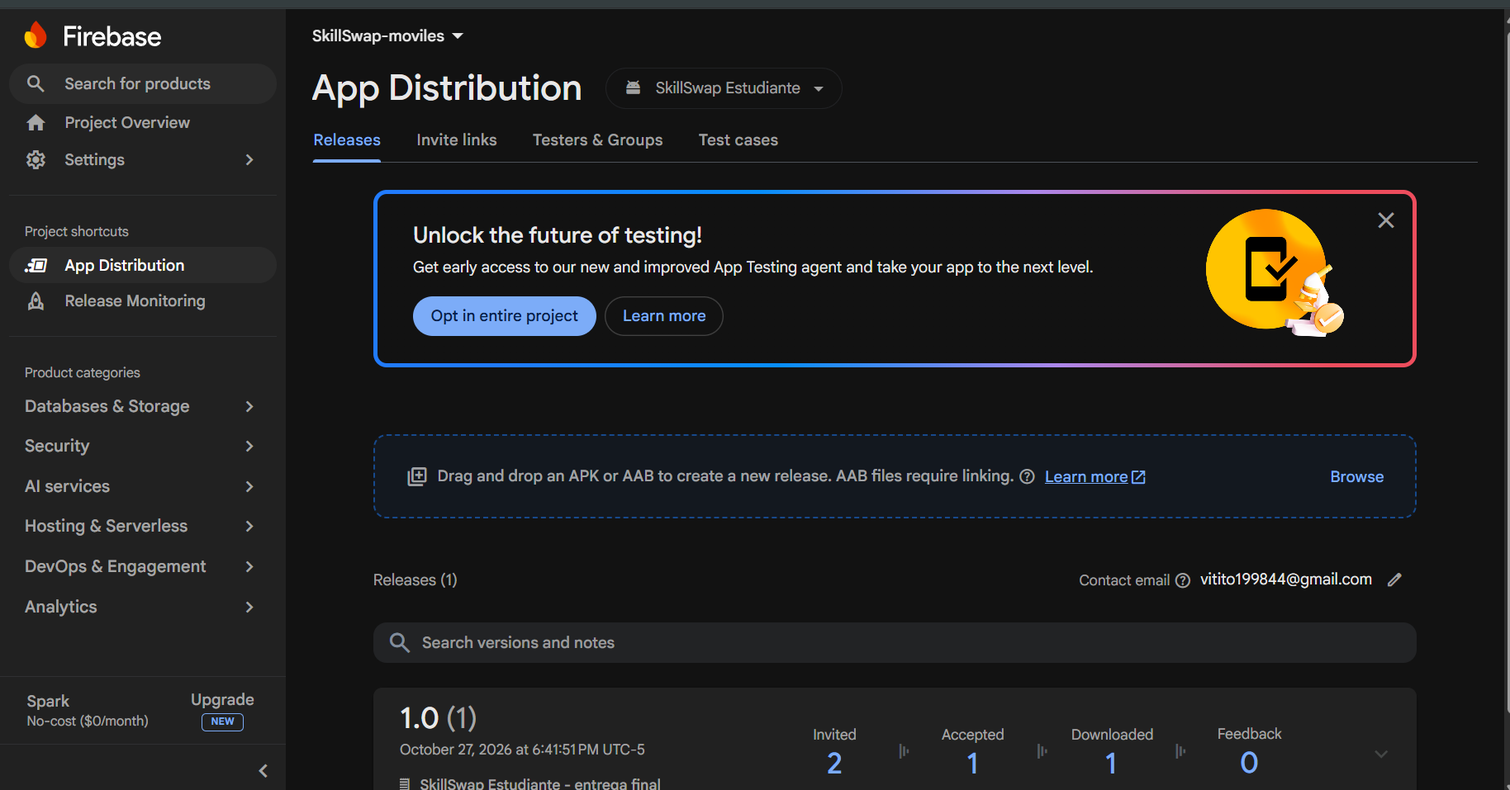
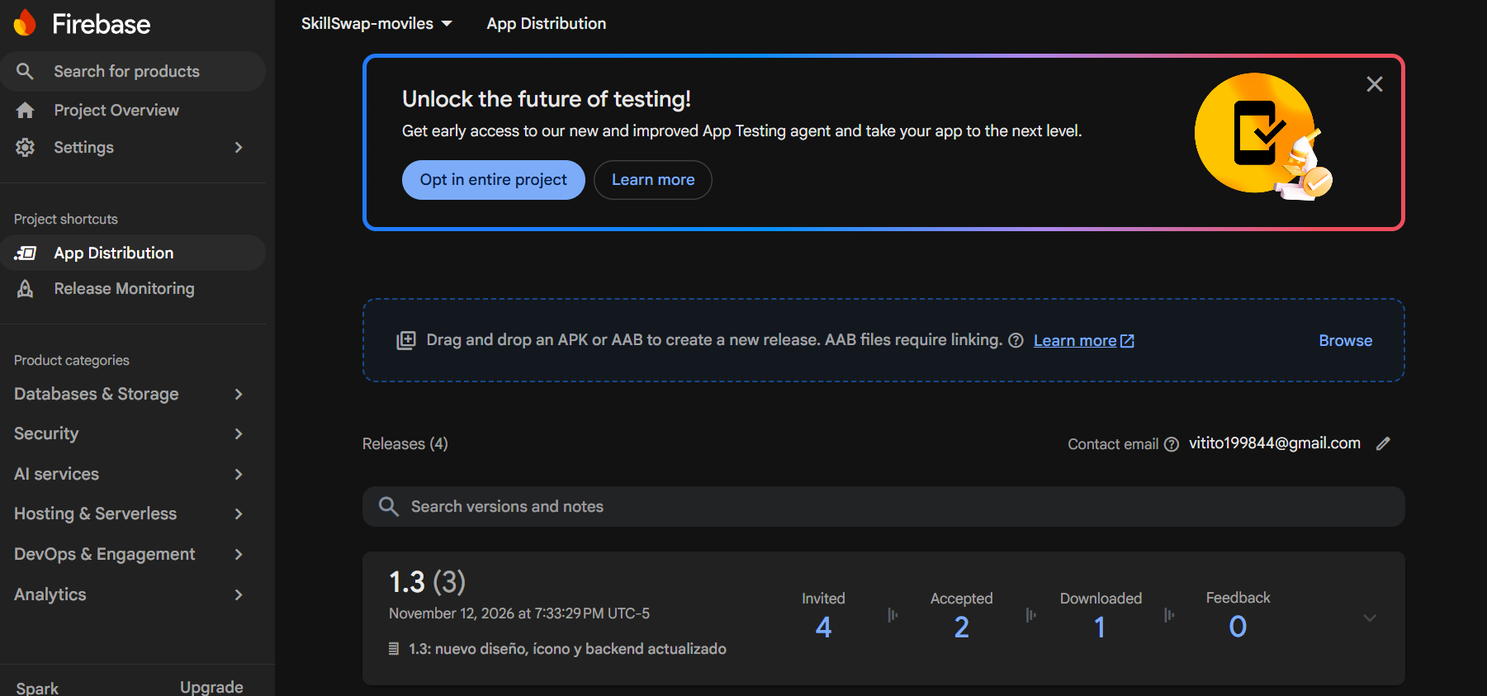
docs(report): reemplazar los marcadores de captura por las figuras de Insights, Firebase y GitHub Releases

diff --git a/upc-pre-02-1acc0238-4948-Innovify-report-avn2.md b/upc-pre-02-1acc0238-4948-Innovify-report-avn2.md
@@ -76,12 +76,12 @@ Noviembre 2026
 | **v.09.AV2** | 30/10/2026 | Alberca Saavedra, Víctor Manuel | Se agregaron al Sprint 2 la tienda de beneficios con canje de SkillCredits y confirmación biométrica de la app Flutter (T76, US32) y la sección de descarga del Landing Page con la corrección de sus botones de acceso (T77, US44). Se actualizaron el Sprint Backlog 2 (34 tasks, 197 horas), la matriz de liderazgo (Tabla 27), los commits (Tablas 29 y 30), el número de pruebas de Flutter (43), el avance del Verificador (7 de 14 historias), el estado de los problemas #1 y #2 de 4.3.3 y las recomendaciones de Conclusiones. |
 | **v.10.AV2** | 01/11/2026 | Alberca Saavedra, Víctor Manuel | Se registró el cambio de despliegue del backend de Render a AWS (31/10/2026): se agregó el apartado correspondiente a 4.2.2.8 (Figuras 151 y 152), se actualizaron 4.1.4, la Tabla 14, la Tabla 33, el Deployment Diagram (2.5), el commit de despliegue (Tabla 29), las Conclusiones y el Anexo A, y se conservó sin cambios el despliegue en Render del Sprint 1 (4.2.1.8). Las capturas de las Figuras 151 y 152 quedan pendientes. |
 | **v.11.AV2** | 09/11/2026 | Komatsu Dueñas, David | Se corrigieron los siguientes tópicos a partir de la revisión del informe para el AV2, contrastándolo con los repositorios:<br><br>**Carátula** (mes de la entrega: noviembre de 2026)<br>**Project Report Collaboration Insights** (AV2 con los commits y Pull Requests reales del repositorio del informe entre el 10 de octubre y el 9 de noviembre de 2026) y **Contenido** (entrada AV2)<br>**Student Outcome** (acciones de AV2 de Komatsu Dueñas, David en las tasks T45, T50, T51, T56 y T70, y conclusiones grupales de AV2)<br><br>**Capítulo I:** 1.1.1 (evaluación entre pares, con cita) y 1.2.1 (microcredenciales y contenido generado con IA, con citas)<br>**Capítulo II:** 2.4.1, 2.4.2, 2.5.1 y 2.5.3 (citas de los métodos aplicados); 2.4.3 Product Backlog (columna Sprint con las 13 historias del Sprint 2 y retiro de una fila de la evaluación heurística que estaba en la Tabla 10); 2.5.3 (texto de los diagramas de Contexto, Contenedores y Despliegue con un actor por aplicación)<br>**Capítulo IV:** 4.1.2 (citas de GitFlow, Semantic Versioning y Conventional Commits, y del desarrollo multiplataforma); 4.1.3 (guía de estilo de Dart / Flutter); 4.1.4 y 4.2.2.8 (versión 1.2 de la app nativa, que consume el backend en AWS, y app Flutter todavía configurada con la URL de Render, en la Tabla 33 y el Anexo A, y nota de la Figura 152 con el estado del Swagger UI en AWS al 9 de noviembre de 2026); 4.2.2.4 (commits de los PR #21 a #23 de la app nativa, de la base de la app Flutter y del PR #11 del Landing Page en la Tabla 29); 4.2.2.5 (todas las pruebas unitarias de la app nativa en la Tabla 30 y su nota); 4.2.2.9 Team Collaboration Insights (commits y Pull Requests por integrante y repositorio); 4.3.3 (problema #9 en la Tabla 36 y recomendaciones de los problemas #7 y #8 para las dos aplicaciones)<br><br>**Conclusiones** (recomendación 7 de accesibilidad, con cita)<br>**Bibliografía** (Alasmari, 2024, y Grévisse et al., 2024, trasladados desde los Anexos; volumen, número y páginas o número de artículo de los papers; Nguyen et al. con el año de su número, 2026; y el paper de Rabelo et al., 2026, sobre la accesibilidad de interfaces nativas de Android con Jetpack Compose) y **Anexo C** (estado del video About the Product)<br><br>Se agregó el archivo `README.md` como archivo principal del repositorio, con enlaces a cada sección del informe y a los repositorios de la solución. |
-| **v.12.AV2** | 10/11/2026 | Alberca Saavedra, Víctor Manuel | Se registraron las tres entrevistas de validación del segmento Personas que validan el conocimiento en 4.3.2 (Figuras 163 a 165) con su perfil, sus datos y el resumen descriptivo por tarea, y se ajustaron 4.3.1 y la Tabla 34 a la forma de esas sesiones, en las que se mostró el Landing Page y un video de la aplicación. |
+| **v.12.AV2** | 10/11/2026 | Alberca Saavedra, Víctor Manuel | Se registraron las tres entrevistas de validación del segmento Personas que validan el conocimiento en 4.3.2 (Figuras 164 a 166) con su perfil, sus datos y el resumen descriptivo por tarea, y se ajustaron 4.3.1 y la Tabla 34 a la forma de esas sesiones, en las que se mostró el Landing Page y un video de la aplicación. |
 | **v.13.AV2** | 11/11/2026 | Komatsu Dueñas, David | Se sincronizaron las evidencias del Sprint 2 con los repositorios y los despliegues al 11 de noviembre de 2026:<br><br>**Project Report Collaboration Insights** (AV2 con los commits y Pull Requests del repositorio del informe hasta el PR #108)<br><br>**Capítulo II:** 2.5.3.3 Software Architecture Deployment Diagrams (Deployment Diagram regenerado con la arquitectura real en AWS: instancia EC2 con Docker Compose y los contenedores de Caddy, la API y PostgreSQL 16, la distribución de cada aplicación y los servicios externos del backend, sin Render; texto de la sección y notas de las Figuras 74 y 122)<br><br>**Capítulo IV:** 4.1.4 (app Flutter apuntando al backend en AWS y versión 1.2 de la app nativa publicada en Firebase App Distribution); 4.2.2.4 (commits de los PR #37 y #38 del backend, del PR #7 de la app Flutter y del PR #13 del Landing Page en la Tabla 29, con su autoría); 4.2.2.5 (pruebas de los PR #37 y #38 en la Tabla 30 y resultados de `./mvnw test` sin Docker, `./gradlew testDebugUnitTest` y `flutter test` sobre `develop`); 4.2.2.7 (`GET /api/v1/reevaluations/candidates` en la Tabla 31); 4.2.2.8 (clientes y actualización del servidor en AWS, nota de la Figura 152 con la especificación OpenAPI publicada, Tabla 33, nota de la Figura 153 y estado de publicación del Landing Page con el inglés por defecto del PR #13); 4.2.2.9 Team Collaboration Insights (commits y Pull Requests por integrante y repositorio hasta el 11 de noviembre de 2026)<br><br>**Anexo A** (app Flutter y enlace de Firebase App Distribution), **Anexo B** (fila del AV2: no se presenta video de exposición, por indicación del docente) y **Anexo C** (estado del video de las entrevistas de validación) |
 | **v.14.AV2** | 11/11/2026 | Alberca Saavedra, Víctor Manuel | Se agregaron las capturas de la reunión de Sprint Planning 2, de la instancia EC2 y del Swagger en AWS, y las de 4.2.2.6 (resultado del quiz y pantalla principal del Verificador), con una descripción para cada figura de 4.2.2.6; se completaron en 4.3.2 los resultados de las sesiones con las personas que validan el conocimiento (hipótesis H4, H5 y H6 y supuestos que cambian) y se registró el cuadro de la entrevista 1; se eliminó la Figura 150 (programación de la demostración final) y se retiró la sección Video App Validation, con su pauta y su cuadro, renumerando las figuras y tablas siguientes. |
-| **v.15.AV2** | 12/11/2026 | Sulca Sánchez, Piero Angel | Se registró la primera versión del video About the Team: URL en Microsoft Stream y en YouTube, duración, cuadro representativo (Figura 176) y pauta real de secciones (Tabla 39); se actualizó su fila en el Anexo C. |
+| **v.15.AV2** | 12/11/2026 | Sulca Sánchez, Piero Angel | Se registró la primera versión del video About the Team: URL en Microsoft Stream y en YouTube, duración, cuadro representativo (Figura 177) y pauta real de secciones (Tabla 39); se actualizó su fila en el Anexo C. |
 | **v.16.AV2** | 12/11/2026 | Sulca Sánchez, Piero Angel | Se registraron en 4.2.2.4 (Tabla 29) los commits representativos de la reorganización por bounded contexts y el rediseño de la app del Estudiante (PR #24), de la actualización del Android Gradle Plugin y del saldo de SkillCredits en la app del Verificador (PR #8 y #9) y de la descarga directa de los APK en el Landing Page (PR #15); se completaron los aportes de Sulca Sánchez en Project Report Collaboration Insights. |
-| **v.17.AV2** | 12/11/2026 | Alberca Saavedra, Víctor Manuel | Se actualizaron las versiones de las aplicaciones (app nativa 1.3 y app Flutter 1.0.1) y su distribución mediante GitHub Releases en 2.5.3, 4.1.4, 4.2.2.8 (Tabla 33, procedimientos y Figuras 155 y 156) y el Anexo A, que ahora incluye los enlaces de descarga directa de los dos APK; y se actualizó la descripción del Landing Page en 4.2.2.8 (descarga directa, términos y condiciones, idioma y accesibilidad). |
+| **v.17.AV2** | 12/11/2026 | Alberca Saavedra, Víctor Manuel | Se actualizaron las versiones de las aplicaciones (app nativa 1.3 y app Flutter 1.0.1) y su distribución mediante GitHub Releases en 2.5.3, 4.1.4, 4.2.2.8 (Tabla 33, procedimientos y Figuras 155 y 156) y el Anexo A, que ahora incluye los enlaces de descarga directa de los dos APK; se actualizó la descripción del Landing Page en 4.2.2.8 (descarga directa, términos y condiciones, idioma y accesibilidad); y se agregó la Figura 160 con los gráficos de contribuciones de los repositorios. |
 
 <div style="page-break-after: always;"></div>
 
@@ -168,7 +168,7 @@ Durante el desarrollo de la entrega AV2, el equipo mantiene el esquema de colabo
   <img src="images-doc/github-commits-informe-av2.png" alt="Historial de commits del repositorio del Project Report durante AV2" width="900">
 </p>
 
-*Nota.* Las capturas corresponden a GitHub Insights al 24 de octubre de 2026 y muestran la rama `main`, que todavía no incluye los commits del AV2 integrados en `develop`. `[Reemplazar por las capturas de Contributors y Commits al cierre del AV2, después de integrar develop en main, y numerarlas como figuras.]` Elaboración propia.
+*Nota.* Las capturas corresponden a GitHub Insights (Contributors y Commits) de la rama `main` del repositorio del Project Report, tomadas al cierre del AV2, después de integrar `develop` en `main`. La primera muestra el gráfico de contribuciones, con los commits de cada integrante por semana, y la segunda, el historial de commits del período. Elaboración propia.
 
 
 
@@ -6394,7 +6394,7 @@ Se presentan las pruebas unitarias y de integración que cubren las historias de
 | SkillSwap-WebServices-Java | feature/assessment-reevaluation-candidates | `98b4714` | feat(assessmentpeerreview): add GET /api/v1/reevaluations/candidates | Pruebas: `ReevaluationsIntegrationTest`. | 2026-10-28 |
 | SkillSwap-WebServices-Java | fix/stale-integration-tests | `35e6e96` | test: align the redeem and demand metrics integration tests with current behavior | Ajustes en `FinalDemonstrationsIntegrationTest`, `RecognitionIncentivesApiIntegrationTest` y `MetricsApiIntegrationTest`. | 2026-11-09 |
 
-*Nota.* Commits del backend y de las aplicaciones a la fecha que incluyen pruebas automatizadas (unitarias y de integración). En la rama `feature/miniproject-preliminary-evaluation` (T56) la suite completa (`./mvnw test`) ejecutó 2326 pruebas sin fallos, sin las 446 pruebas de integración y persistencia con Testcontainers, que requieren Docker. Al ejecutar la suite completa con Docker sobre `develop` (en Windows) se corrieron 2329 pruebas con un fallo en `LearningPathPersistenceTest` (línea 311): el plazo del miniproyecto leído de PostgreSQL difería del guardado en la fracción de microsegundo, porque el reloj de Windows tiene pasos de 100 ns y PostgreSQL guarda microsegundos. El PR #22 (`fix/persistence-instant-precision`) lo corrige; su suite sin Docker ejecutó 2328 pruebas sin fallos. El PR #37 agrega las pruebas de `GET /api/v1/reevaluations/candidates` (unitarias, de persistencia y de integración) y el PR #38 ajusta tres pruebas de integración al comportamiento vigente. El 11 de noviembre de 2026, sobre la rama `develop` del backend (commit `2dc1632`, merge del PR #38), `./mvnw test` sin Docker reportó 2792 pruebas, sin fallos ni errores, de las cuales 566 se omitieron porque requieren Docker (Testcontainers). La corrida con Docker sobre `develop` queda pendiente de confirmación: `[Completar con el resultado de ./mvnw test con Docker sobre develop]`. Las pruebas de la aplicación nativa son unitarias, en `app/src/test` (`SignUpValidatorTest`, `CertificateParserTest`, `VerificationCaseTest`, `CertificateMismatchTest`, `WalletTest`, `FinalDemonstrationTest`, `PlanAndProfileTest`, `PathLimitsTest` y la `ExampleUnitTest` de la plantilla del proyecto): el 11 de noviembre de 2026, sobre la rama `develop` de `SkillSwap-MobileApp` (commit `9881db1`, merge del PR #23), `./gradlew testDebugUnitTest` (las pruebas unitarias locales de `./gradlew test` en la variante debug) ejecutó 41 pruebas en 9 clases, sin fallos, errores ni pruebas omitidas. La aplicación Flutter del Verificador tiene 43 pruebas: 26 de BLoC (`bloc_test.dart`), 16 de dominio (`domain_test.dart`) y 1 de widget (`widget_test.dart`); el mismo día, sobre la rama `develop` de `SkillSwap-MobileApp-Flutter` (commit `5ae7534`, merge del PR #7), `flutter test` (Flutter 3.47.9) ejecutó las 43 pruebas y todas pasaron. Elaboración propia.
+*Nota.* Commits del backend y de las aplicaciones a la fecha que incluyen pruebas automatizadas (unitarias y de integración). En la rama `feature/miniproject-preliminary-evaluation` (T56) la suite completa (`./mvnw test`) ejecutó 2326 pruebas sin fallos, sin las 446 pruebas de integración y persistencia con Testcontainers, que requieren Docker. Al ejecutar la suite completa con Docker sobre `develop` (en Windows) se corrieron 2329 pruebas con un fallo en `LearningPathPersistenceTest` (línea 311): el plazo del miniproyecto leído de PostgreSQL difería del guardado en la fracción de microsegundo, porque el reloj de Windows tiene pasos de 100 ns y PostgreSQL guarda microsegundos. El PR #22 (`fix/persistence-instant-precision`) lo corrige; su suite sin Docker ejecutó 2328 pruebas sin fallos. El PR #37 agrega las pruebas de `GET /api/v1/reevaluations/candidates` (unitarias, de persistencia y de integración) y el PR #38 ajusta tres pruebas de integración al comportamiento vigente. El 11 de noviembre de 2026, sobre la rama `develop` del backend (commit `2dc1632`, merge del PR #38), `./mvnw test` sin Docker reportó 2792 pruebas, sin fallos ni errores, de las cuales 566 se omitieron porque requieren Docker (Testcontainers). Las pruebas de la aplicación nativa son unitarias, en `app/src/test` (`SignUpValidatorTest`, `CertificateParserTest`, `VerificationCaseTest`, `CertificateMismatchTest`, `WalletTest`, `FinalDemonstrationTest`, `PlanAndProfileTest`, `PathLimitsTest` y la `ExampleUnitTest` de la plantilla del proyecto): el 11 de noviembre de 2026, sobre la rama `develop` de `SkillSwap-MobileApp` (commit `9881db1`, merge del PR #23), `./gradlew testDebugUnitTest` (las pruebas unitarias locales de `./gradlew test` en la variante debug) ejecutó 41 pruebas en 9 clases, sin fallos, errores ni pruebas omitidas. La aplicación Flutter del Verificador tiene 43 pruebas: 26 de BLoC (`bloc_test.dart`), 16 de dominio (`domain_test.dart`) y 1 de widget (`widget_test.dart`); el mismo día, sobre la rama `develop` de `SkillSwap-MobileApp-Flutter` (commit `5ae7534`, merge del PR #7), `flutter test` (Flutter 3.47.9) ejecutó las 43 pruebas y todas pasaron. Elaboración propia.
 
 #### 4.2.2.6. Execution Evidence for Sprint Review
 
@@ -6606,7 +6606,7 @@ Durante el Sprint 2 el backend cambió de entorno de despliegue. El 31 de octubr
 | Repositorio | `SkillSwap-MobileApp` | `SkillSwap-MobileApp-Flutter` |
 | Tecnología | Kotlin / Jetpack Compose | Flutter / Dart |
 | Identificador de la app | `com.innovify.skillswap` | `com.innovify.skillswap_verifier` |
-| Versión | 1.3, disponible en GitHub Releases al 12 de noviembre de 2026; la versión 1.2 (código de versión 2), desde el 1 de noviembre de 2026, se publicó en Firebase App Distribution según confirmó el equipo el 11 de noviembre de 2026; la captura de la Figura 153 corresponde a la versión 1.0 (código de versión 1) | 1.0.1, disponible en GitHub Releases al 12 de noviembre de 2026 |
+| Versión | 1.3, disponible en GitHub Releases al 12 de noviembre de 2026; la versión 1.2 (código de versión 2), desde el 1 de noviembre de 2026, se publicó en Firebase App Distribution según confirmó el equipo el 11 de noviembre de 2026; la captura de la Figura 153 corresponde a la versión 1.2 (código de versión 2) | 1.0.1, disponible en GitHub Releases al 12 de noviembre de 2026 |
 | Android mínimo | Android 10 (API 29) | El que define Flutter para el proyecto (`flutter.minSdkVersion`) |
 | Plataforma de distribución | GitHub Releases (descarga directa del APK) y Firebase App Distribution, proyecto `skillswap-moviles` | GitHub Releases (descarga directa del APK) |
 | Método de publicación | APK adjunto a un release de GitHub con el nombre `skillswap-student.apk`; subida manual del APK en la consola de Firebase | APK adjunto a un release de GitHub con el nombre `skillswap-verificador.apk` |
@@ -6647,13 +6647,13 @@ Del lado del Verificador, la app Flutter (`com.innovify.skillswap_verifier`, ver
 
 **Figura 153**
 
-*Versión 1.0 de la app nativa publicada en Firebase App Distribution*
+*Versión 1.2 de la app nativa publicada en Firebase App Distribution*
 
 <p align="center">
-  <img src="images-doc/firebase-app-distribution-release.png" alt="Versión 1.0 de la app nativa publicada en Firebase App Distribution" width="900">
+  <img src="images-doc/firebase-app-distribution-release.png" alt="Versión 1.2 de la app nativa publicada en Firebase App Distribution" width="900">
 </p>
 
-*Nota.* La captura corresponde a la versión 1.0 (código de versión 1). La versión 1.2 (código de versión 2), que apunta al backend en AWS, está en la rama `develop` desde el 1 de noviembre de 2026 y, según confirmó el equipo el 11 de noviembre de 2026, ya está publicada en Firebase App Distribution. `[Reemplazar por la captura de la versión 1.2 en la consola de Firebase App Distribution y actualizar el título de la figura]`. Elaboración propia.
+*Nota.* Release de la versión 1.2 (código de versión 2) en la consola de Firebase App Distribution, con la app nativa apuntando al backend en AWS (rama `develop` desde el 1 de noviembre de 2026). Elaboración propia.
 
 **Figura 154**
 
@@ -6727,7 +6727,31 @@ En el período, los cinco repositorios suman 196 commits sin merge: 159 de Alber
   <img src="images-doc/github-insights-commits-sprint-2.png" alt="Historial de commits de los repositorios durante el Sprint 2" width="900">
 </p>
 
-*Nota.* Historial de commits de la rama `develop` de `SkillSwap-MobileApp` con el PR #10, que integra las tasks T47, T53 y T55. `[Agregar las capturas de GitHub Insights (Contributors y Commits) de los demás repositorios al cierre del Sprint 2.]` Elaboración propia.
+*Nota.* Historial de commits de la rama `develop` de `SkillSwap-MobileApp` con el PR #10, que integra las tasks T47, T53 y T55. Elaboración propia.
+
+**Figura 160**
+
+*Gráficos de contribuciones de los repositorios durante el Sprint 2*
+
+<p align="center">
+  <img src="images-doc/github-insights-contributors-backend.png" alt="Contribuciones del repositorio SkillSwap-WebServices-Java durante el Sprint 2" width="900">
+</p>
+
+<p align="center">
+  <img src="images-doc/github-insights-contributors-app-nativa.png" alt="Contribuciones del repositorio SkillSwap-MobileApp durante el Sprint 2" width="900">
+</p>
+
+<p align="center">
+  <img src="images-doc/github-insights-contributors-flutter.png" alt="Contribuciones del repositorio SkillSwap-MobileApp-Flutter durante el Sprint 2" width="900">
+</p>
+
+<p align="center">
+  <img src="images-doc/github-insights-contributors-landing.png" alt="Contribuciones del repositorio SkillSwap-LandingPage durante el Sprint 2" width="900">
+</p>
+
+*Nota.* Gráficos de Insights → Contributors de los cuatro repositorios, del 10 de octubre al 11 de noviembre de 2026. De arriba abajo: `SkillSwap-WebServices-Java`, `SkillSwap-MobileApp`, `SkillSwap-MobileApp-Flutter` y `SkillSwap-LandingPage`. Elaboración propia.
+
+En estas imágenes se presenta, para cada repositorio, el gráfico de contribuciones con los commits de cada integrante por semana durante el período del Sprint 2. La primera corresponde al backend, la segunda a la aplicación nativa del Estudiante, la tercera a la aplicación Flutter del Verificador y la cuarta al Landing Page. Los totales de commits y de Pull Requests de cada repositorio se detallan en la lista anterior; el repositorio del informe se evidencia en la sección Project Report Collaboration Insights (AV2).
 
 
 ## 4.3. Validation Interviews
@@ -6841,7 +6865,7 @@ Para este segmento se realizan de 3 a 5 entrevistas de validación con estudiant
 * **Inicio de la entrevista en el video:** 00:00:00
 * **Duración:** 6:37
 
-**Figura 160**
+**Figura 161**
 
 *Entrevista de validación 1: Personas que quieren aprender*
 
@@ -6868,7 +6892,7 @@ Para este segmento se realizan de 3 a 5 entrevistas de validación con estudiant
 * **Inicio de la entrevista en el video:** 00:00:00
 * **Duración:** 7:53
 
-**Figura 161**
+**Figura 162**
 
 *Entrevista de validación 2: Personas que quieren aprender*
 
@@ -6895,7 +6919,7 @@ Para este segmento se realizan de 3 a 5 entrevistas de validación con estudiant
 * **Inicio de la entrevista en el video:** 00:00:00
 * **Duración:** 5:04
 
-**Figura 162**
+**Figura 163**
 
 *Entrevista de validación 3: Personas que quieren aprender*
 
@@ -6925,7 +6949,7 @@ Para este segmento se realizan de 3 a 5 entrevistas de validación con personas 
 * **Inicio de la entrevista en el video:** 00:00:00
 * **Duración:** 7:56
 
-**Figura 163**
+**Figura 164**
 
 *Entrevista de validación 1: Personas que validan el conocimiento*
 
@@ -6951,7 +6975,7 @@ Para este segmento se realizan de 3 a 5 entrevistas de validación con personas 
 * **Inicio de la entrevista en el video:** 00:00:00
 * **Duración:** 5:00
 
-**Figura 164**
+**Figura 165**
 
 *Entrevista de validación 2: Personas que validan el conocimiento*
 
@@ -6977,7 +7001,7 @@ Para este segmento se realizan de 3 a 5 entrevistas de validación con personas 
 * **Inicio de la entrevista en el video:** 00:00:00
 * **Duración:** 7:18
 
-**Figura 165**
+**Figura 166**
 
 *Entrevista de validación 3: Personas que validan el conocimiento*
 
@@ -7051,7 +7075,7 @@ No están incluidas en esta versión de la evaluación: 1) el canje de beneficio
 * **Heurística violada:** Information Architecture: Is it findable?
 * **Problema:** En `index.html` los dos botones de la barra de navegación están dentro de un enlace a `index.html`, por lo que desde la página de inicio no se llega a `login.html` ni a `signup.html`. Además, un botón dentro de un enlace es un elemento interactivo anidado, que los lectores de pantalla pueden anunciar dos veces.
 
-**Figura 166**
+**Figura 167**
 
 *Captura del problema #1*
 
@@ -7070,7 +7094,7 @@ No están incluidas en esta versión de la evaluación: 1) el canje de beneficio
 * **Heurística violada:** Information Architecture: Is it usable?
 * **Problema:** Los cuatro llamados a la acción de la página (el del encabezado y los de las secciones «Sobre nosotros», «Por qué SkillSwap» y «Así se ve una ruta») enlazan a `index.html`, es decir, recargan la misma página, y la página no ofrece un enlace para descargar o instalar la aplicación (US44).
 
-**Figura 167**
+**Figura 168**
 
 *Captura del problema #2*
 
@@ -7089,7 +7113,7 @@ No están incluidas en esta versión de la evaluación: 1) el canje de beneficio
 * **Heurística violada:** Usability: Ayuda para reconocer, diagnosticar y recuperarse de errores
 * **Problema:** La pantalla `Login` de la app nativa solo ofrece ingresar y crear una cuenta, y la de la app Flutter solo pide usuario y contraseña. Quien olvidó su contraseña no tiene cómo volver a entrar. El backend tampoco expone un endpoint de restablecimiento de contraseña.
 
-**Figura 168**
+**Figura 169**
 
 *Captura del problema #3*
 
@@ -7107,7 +7131,7 @@ No están incluidas en esta versión de la evaluación: 1) el canje de beneficio
 * **Heurística violada:** Usability: Prevención de errores
 * **Problema:** En la pantalla de la ruta, «Salir» está junto a «Mi billetera» y ejecuta el cierre de sesión de inmediato. Un toque accidental borra la sesión guardada y obliga a volver a ingresar. En la app Flutter, el ícono de cerrar sesión de la pantalla de casos tampoco pide confirmación.
 
-**Figura 169**
+**Figura 170**
 
 *Captura del problema #4*
 
@@ -7125,7 +7149,7 @@ No están incluidas en esta versión de la evaluación: 1) el canje de beneficio
 * **Heurística violada:** Information Architecture: Is it findable?
 * **Problema:** El botón de la ruta se llama «Mi billetera» y abre la pantalla del perfil, que además tiene los botones «Mi plan» y «Mis intereses». Quien busca su plan o sus intereses no sospecha que están bajo ese nombre.
 
-**Figura 170**
+**Figura 171**
 
 *Captura del problema #5*
 
@@ -7143,7 +7167,7 @@ No están incluidas en esta versión de la evaluación: 1) el canje de beneficio
 * **Heurística violada:** Usability: Visibilidad del estado del sistema
 * **Problema:** Catorce pantallas muestran sus errores de red y sus confirmaciones con `Toast` (40 usos). Desaparecen en pocos segundos y no se pueden releer, por ejemplo si falla el envío del certificado o el registro. En la app Flutter, el inicio de sesión y las pantallas de revisión de casos, disponibilidad, reevaluación, supervisión y compartir un logro usan `SnackBar`, que también se cierra solo.
 
-**Figura 171**
+**Figura 172**
 
 *Captura del problema #6*
 
@@ -7161,7 +7185,7 @@ No están incluidas en esta versión de la evaluación: 1) el canje de beneficio
 * **Heurística violada:** Inclusive Design: Offer choice
 * **Problema:** El tema de la app nativa y el de la app Flutter (`AppTheme.light()`) no ofrecen modo oscuro, por lo que las personas que lo prefieren, o lo necesitan por sensibilidad a la luz, no pueden cambiarlo.
 
-**Figura 172**
+**Figura 173**
 
 *Captura del problema #7*
 
@@ -7179,7 +7203,7 @@ No están incluidas en esta versión de la evaluación: 1) el canje de beneficio
 * **Heurística violada:** Inclusive Design: Provide comparable experience
 * **Problema:** El Landing Page ofrece el cambio ES/EN, mientras que los textos de la aplicación están escritos en el código y el archivo `strings.xml` solo tiene una cadena, así que una persona que elige inglés en el sitio encuentra la aplicación solo en español. Las pantallas de la app Flutter también tienen sus textos escritos en español dentro del código.
 
-**Figura 173**
+**Figura 174**
 
 *Captura del problema #8*
 
@@ -7197,7 +7221,7 @@ No están incluidas en esta versión de la evaluación: 1) el canje de beneficio
 * **Heurística violada:** Usability: Control y libertad del usuario
 * **Problema:** Si la cuenta no tiene el rol de Verificador, la pantalla de casos solo indica que debe completar un nodo en la app del Estudiante y habilitarse, y ofrece «Volver a revisar». La app Flutter no permite habilitarse y el segmento de Verificadores usa solo esa app, por lo que quien no tiene la cuenta ya habilitada no puede continuar.
 
-**Figura 174**
+**Figura 175**
 
 *Captura del problema #9*
 
@@ -7324,7 +7348,7 @@ El video está dirigido a quienes visitan el Landing Page y quieren conocer el m
 * **URL en YouTube (incrustado en el Landing Page):** [https://youtu.be/-XpgJySK29A](https://youtu.be/-XpgJySK29A)
 * **Duración:** 01:30
 
-**Figura 175**
+**Figura 176**
 
 *Cuadro del video About the Product*
 
@@ -7358,7 +7382,7 @@ El video presenta al equipo Innovify a través del testimonio ante cámara de ca
 * **URL en YouTube (incrustado en el Landing Page, página Sobre nosotros):** [https://youtu.be/_XDtUMnAASU](https://youtu.be/_XDtUMnAASU)
 * **Duración:** 07:26
 
-**Figura 176**
+**Figura 177**
 
 *Cuadro del video About the Team*
 
@@ -7714,30 +7738,31 @@ Figura 149. *Acceso con biometría del dispositivo*<br>
 Figura 150. *Documentación Swagger de los endpoints del Sprint 2*<br>
 Figura 151. *Instancia EC2 del backend en AWS*<br>
 Figura 152. *Swagger UI del backend en AWS*<br>
-Figura 153. *Versión 1.0 de la app nativa publicada en Firebase App Distribution*<br>
+Figura 153. *Versión 1.2 de la app nativa publicada en Firebase App Distribution*<br>
 Figura 154. *Correo de invitación de Firebase App Distribution*<br>
 Figura 155. *Release de la app nativa del Estudiante en GitHub Releases*<br>
 Figura 156. *Release de la app Flutter del Verificador en GitHub Releases*<br>
 Figura 157. *App nativa del Estudiante instalada en un dispositivo físico*<br>
 Figura 158. *Landing Page publicado y verificado en el Sprint 2*<br>
 Figura 159. *Historial de commits de los repositorios durante el Sprint 2*<br>
-Figura 160. *Entrevista de validación 1: Personas que quieren aprender*<br>
-Figura 161. *Entrevista de validación 2: Personas que quieren aprender*<br>
-Figura 162. *Entrevista de validación 3: Personas que quieren aprender*<br>
-Figura 163. *Entrevista de validación 1: Personas que validan el conocimiento*<br>
-Figura 164. *Entrevista de validación 2: Personas que validan el conocimiento*<br>
-Figura 165. *Entrevista de validación 3: Personas que validan el conocimiento*<br>
-Figura 166. *Captura del problema #1*<br>
-Figura 167. *Captura del problema #2*<br>
-Figura 168. *Captura del problema #3*<br>
-Figura 169. *Captura del problema #4*<br>
-Figura 170. *Captura del problema #5*<br>
-Figura 171. *Captura del problema #6*<br>
-Figura 172. *Captura del problema #7*<br>
-Figura 173. *Captura del problema #8*<br>
-Figura 174. *Captura del problema #9*<br>
-Figura 175. *Cuadro del video About the Product*<br>
-Figura 176. *Cuadro del video About the Team*<br>
+Figura 160. *Gráficos de contribuciones de los repositorios durante el Sprint 2*<br>
+Figura 161. *Entrevista de validación 1: Personas que quieren aprender*<br>
+Figura 162. *Entrevista de validación 2: Personas que quieren aprender*<br>
+Figura 163. *Entrevista de validación 3: Personas que quieren aprender*<br>
+Figura 164. *Entrevista de validación 1: Personas que validan el conocimiento*<br>
+Figura 165. *Entrevista de validación 2: Personas que validan el conocimiento*<br>
+Figura 166. *Entrevista de validación 3: Personas que validan el conocimiento*<br>
+Figura 167. *Captura del problema #1*<br>
+Figura 168. *Captura del problema #2*<br>
+Figura 169. *Captura del problema #3*<br>
+Figura 170. *Captura del problema #4*<br>
+Figura 171. *Captura del problema #5*<br>
+Figura 172. *Captura del problema #6*<br>
+Figura 173. *Captura del problema #7*<br>
+Figura 174. *Captura del problema #8*<br>
+Figura 175. *Captura del problema #9*<br>
+Figura 176. *Cuadro del video About the Product*<br>
+Figura 177. *Cuadro del video About the Team*<br>
 
 ## Anexo A. Enlaces de Acceso a la Solución
 
